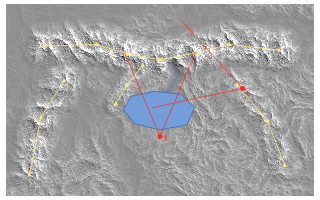
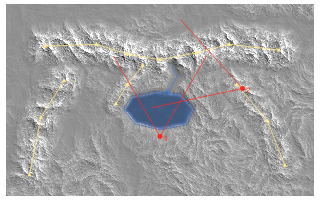
Charted range: regenerate the plan and both views (#13)
Claude-Session: https://claude.ai/code/session_01SjY16JjyTvuME1oVQVUxjG

Changed region(s): [[0.3438, 0.27, 0.6562, 0.66]]

diff --git a/docs/techniques.html b/docs/techniques.html
@@ -251,11 +251,11 @@ height = TerrBase + TerrH · relief(mask) + lift</div>
 <div class="grid2">
 <figure>
   <img src="techniques/charted_view1.png" alt="The range seen across the lake, with its reflection." loading="lazy">
-  <figcaption>View 1 (7.6 min at 320×200 on one core), from the lake's south shore looking north at the twin peaks.</figcaption>
+  <figcaption>View 1 (5.4 min at 320×200 on one core), from the lake's south shore looking north at the twin peaks.</figcaption>
 </figure>
 <figure>
   <img src="techniques/charted_view2.png" alt="The same range seen from the eastern hills, looking west across the valley." loading="lazy">
-  <figcaption>View 2 (<code>-D View=2</code>, 6.4 min), from the eastern hills looking west across the valley. Same map, same seed; only the camera moved.</figcaption>
+  <figcaption>View 2 (<code>-D View=2</code>, 4.9 min), from the eastern hills looking west across the valley. Same map, same seed; only the camera moved.</figcaption>
 </figure>
 </div>
 
